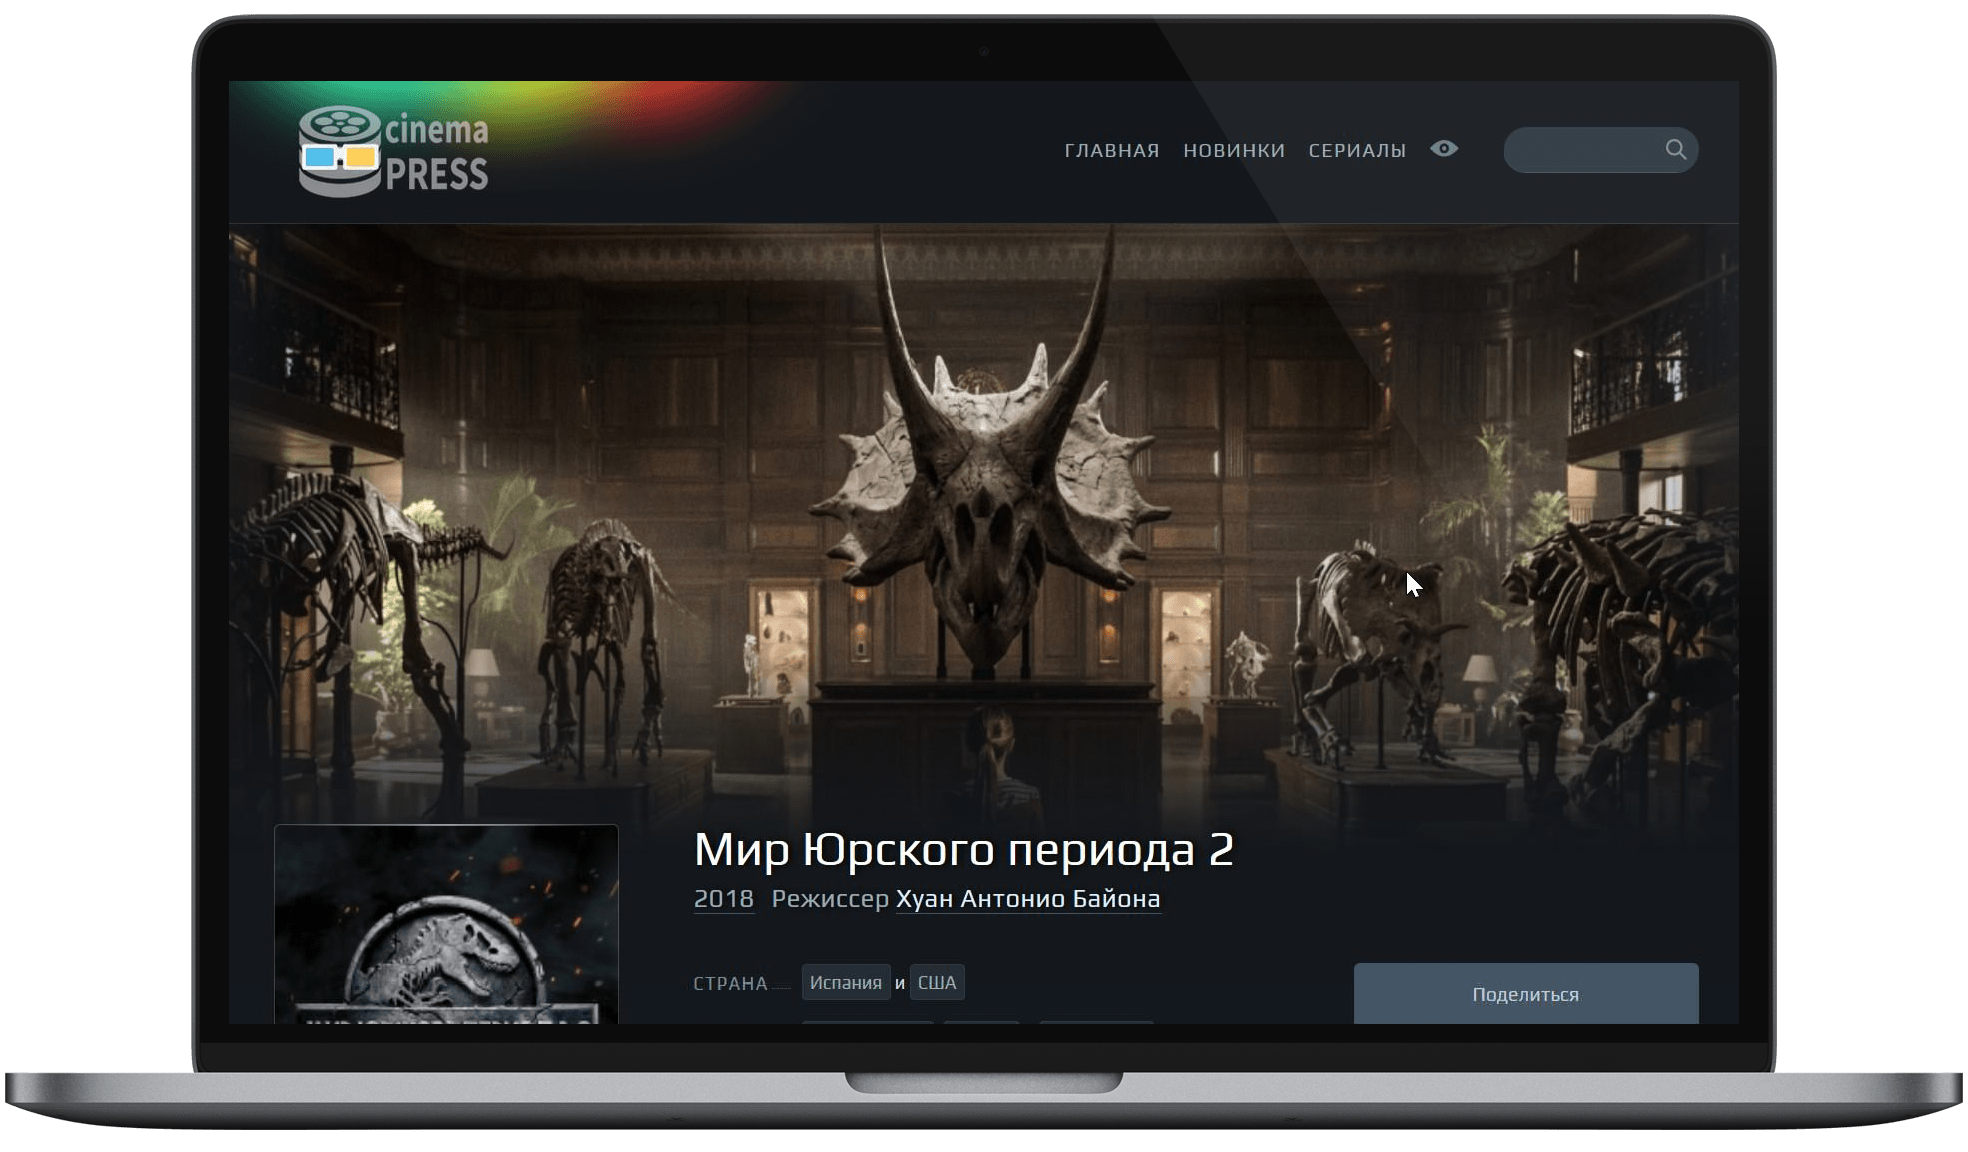
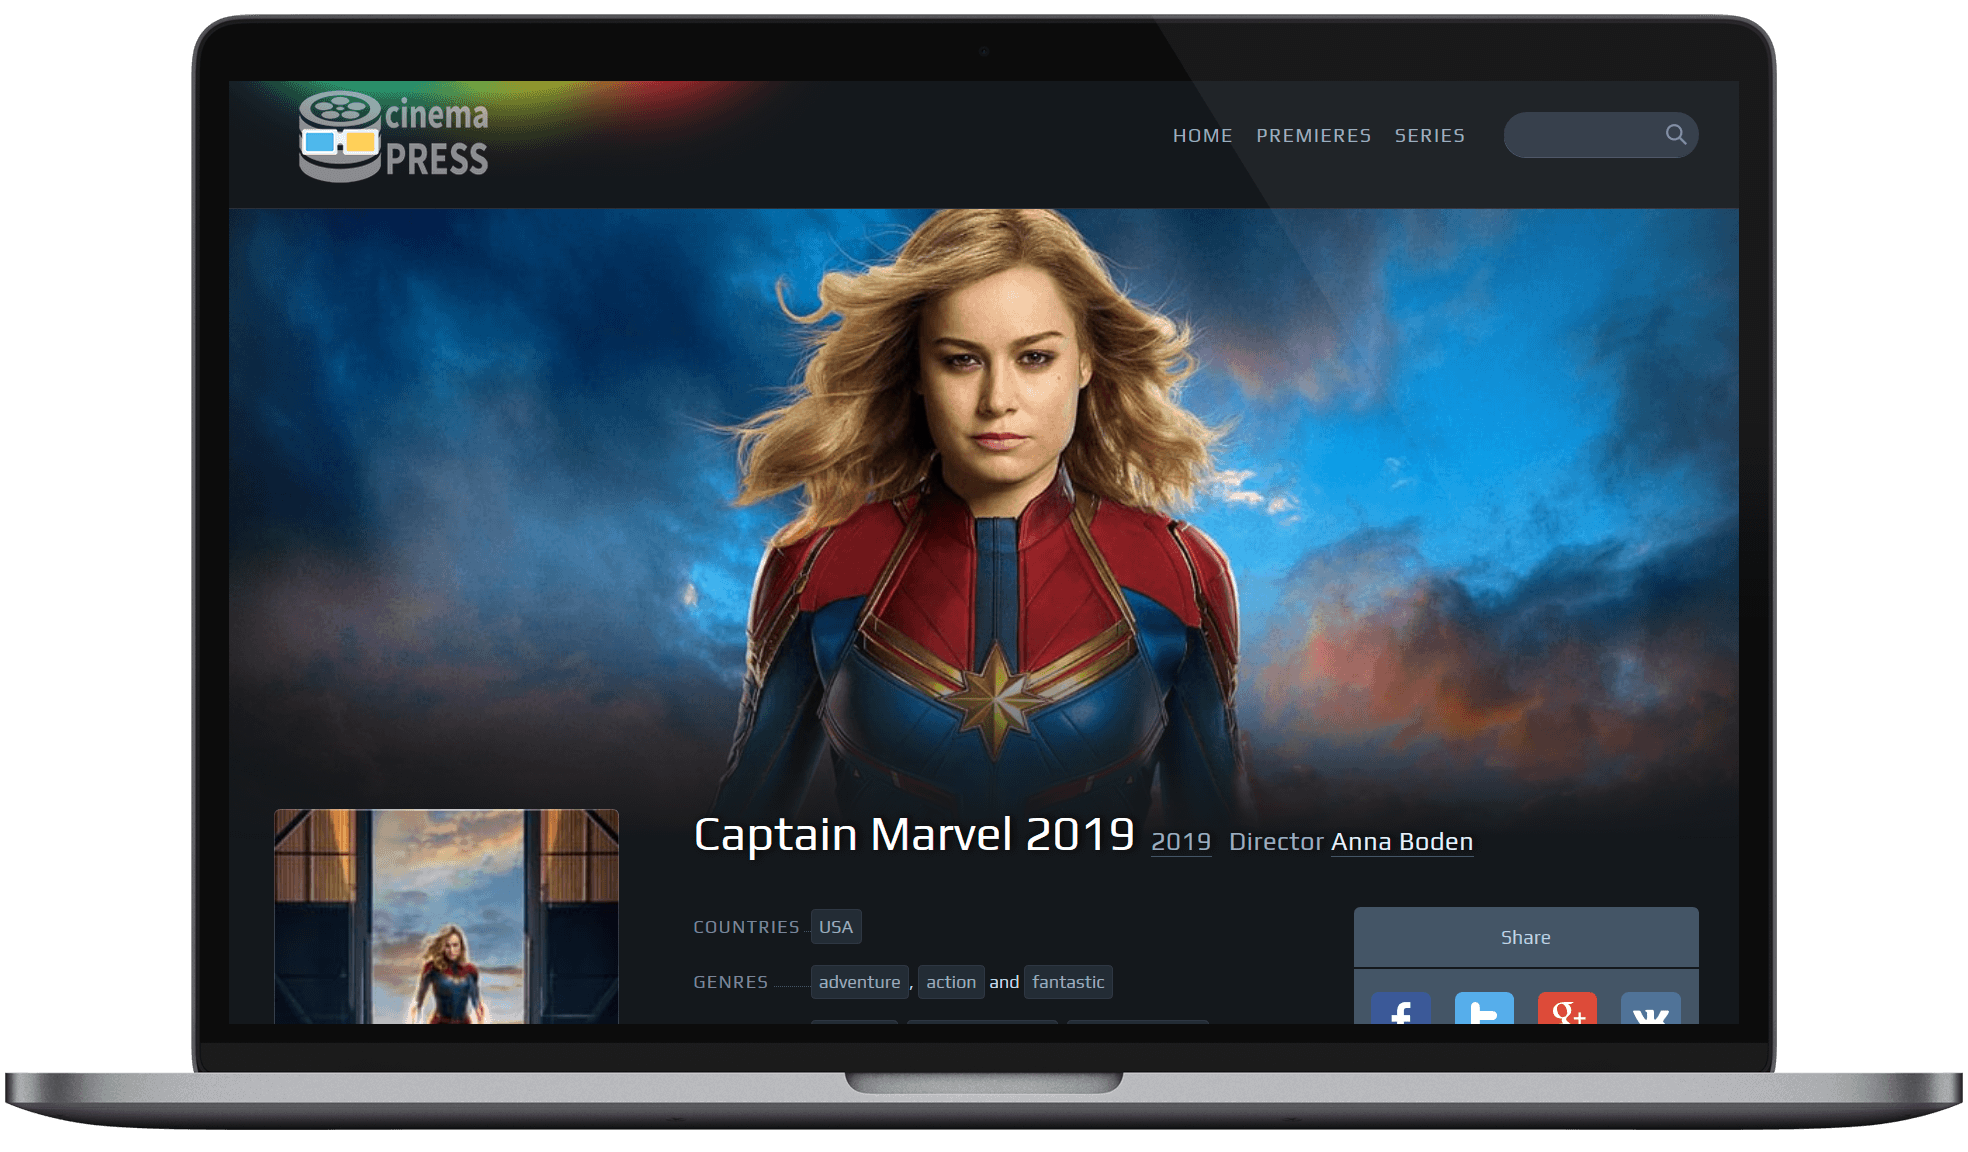
Add translate, new scr

diff --git a/README.md b/README.md
@@ -1,18 +1,29 @@
-# Шаблон «arya»
+# Theme «arya»
 
-![Шаблон «arya» для CinemaPress ACMS](https://raw.githubusercontent.com/CinemaPress/Theme-Arya/master/screenshot.png "Шаблон «arya» для CinemaPress ACMS")
+![Theme «arya» for CinemaPress ACMS](https://raw.githubusercontent.com/CinemaPress/Theme-Arya/master/screenshot.png "Theme «arya» for CinemaPress ACMS")
 
-:art: Шаблон «arya» для CinemaPress ACMS
+:art: Theme «arya» for CinemaPress ACMS
 
 - [Arya.CinemaPress.org](http://Arya.CinemaPress.org/)
 
-## Установка
+## How to install?
+1. Download [GitHub](https://github.com/CinemaPress/Theme-Arya/archive/master.zip) or [GitLab](https://gitlab.com/CinemaPress/Theme-Arya/repository/archive.zip) or [BitBucket](https://bitbucket.org/cinemapress/theme-arya/get/master.zip) or [Coding](https://coding.net/u/CinemaPress/p/Theme-Arya/git/archive/master.zip)
+2. Unpack the archive and rename the folder to **arya**
+3. Folder **arya** send to server in folder **themes**
+4. Change the name of the theme in the admin panel to **arya**
+
+## Installation via terminal
+```
+~# wget cinemapress.org/i -qO i && chmod +x i && ./i 3
+```
+
+## Как установить?
 1. Скачать архив с [GitHub](https://github.com/CinemaPress/Theme-Arya/archive/master.zip) или [GitLab](https://gitlab.com/CinemaPress/Theme-Arya/repository/archive.zip) или [BitBucket](https://bitbucket.org/cinemapress/theme-arya/get/master.zip) или [Coding](https://coding.net/u/CinemaPress/p/Theme-Arya/git/archive/master.zip)
 2. Распаковать архив и переименовать папку в **arya**
 3. Папку **arya** отправить на сервер в папку **themes**
 4. Изменить название темы в админ-панели на **arya**
 
-## Установка через установщик тем CinemaPress ACMS
+## Установка через терминал
 ```
 ~# wget cinemapress.org/i -qO i && chmod +x i && ./i 3
 ```
